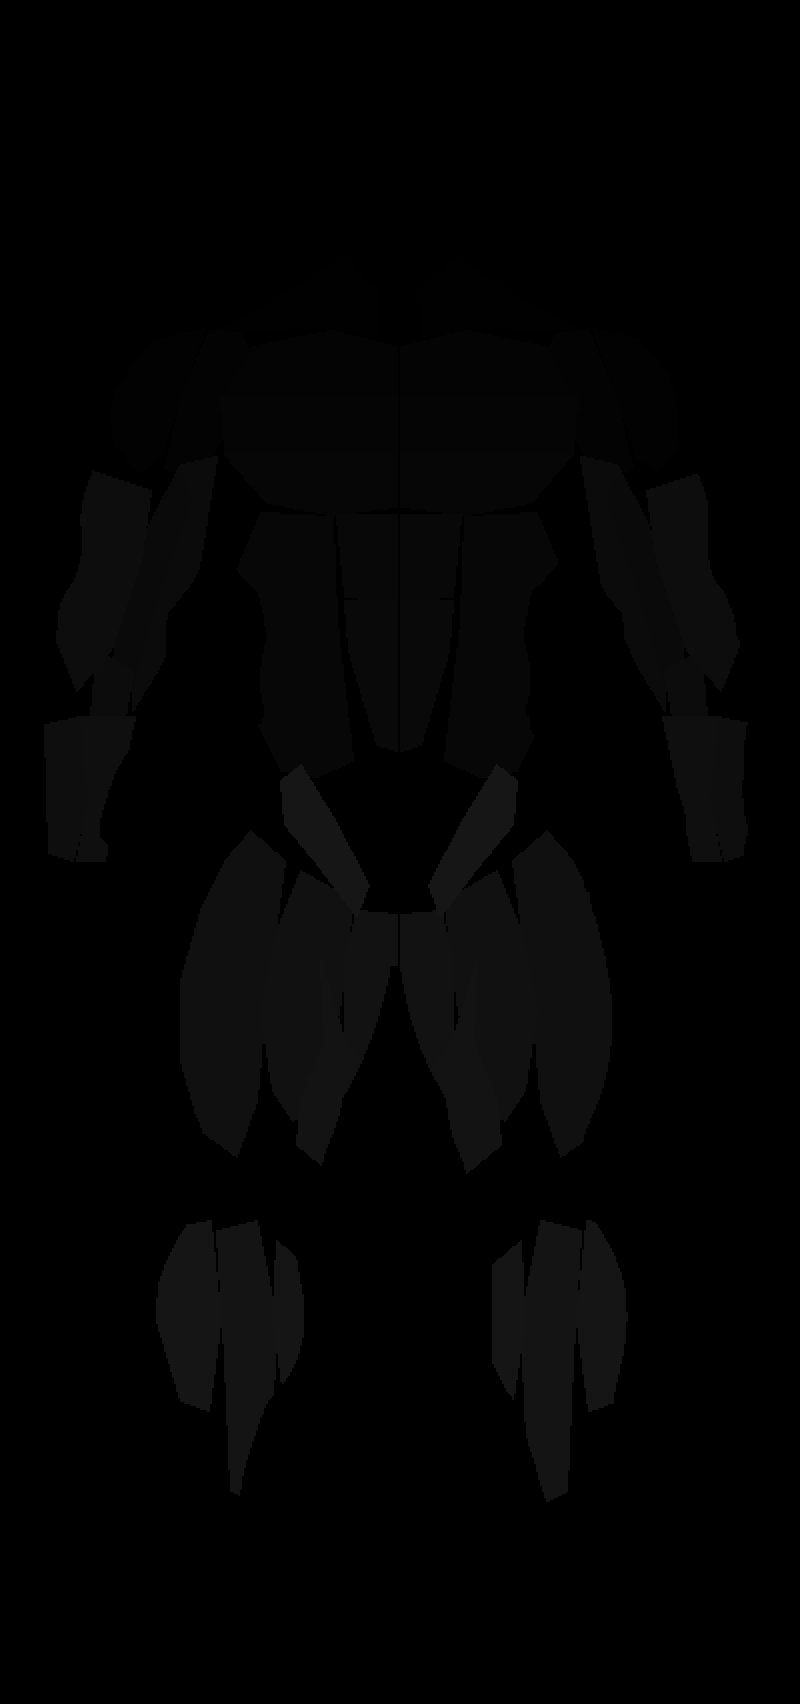
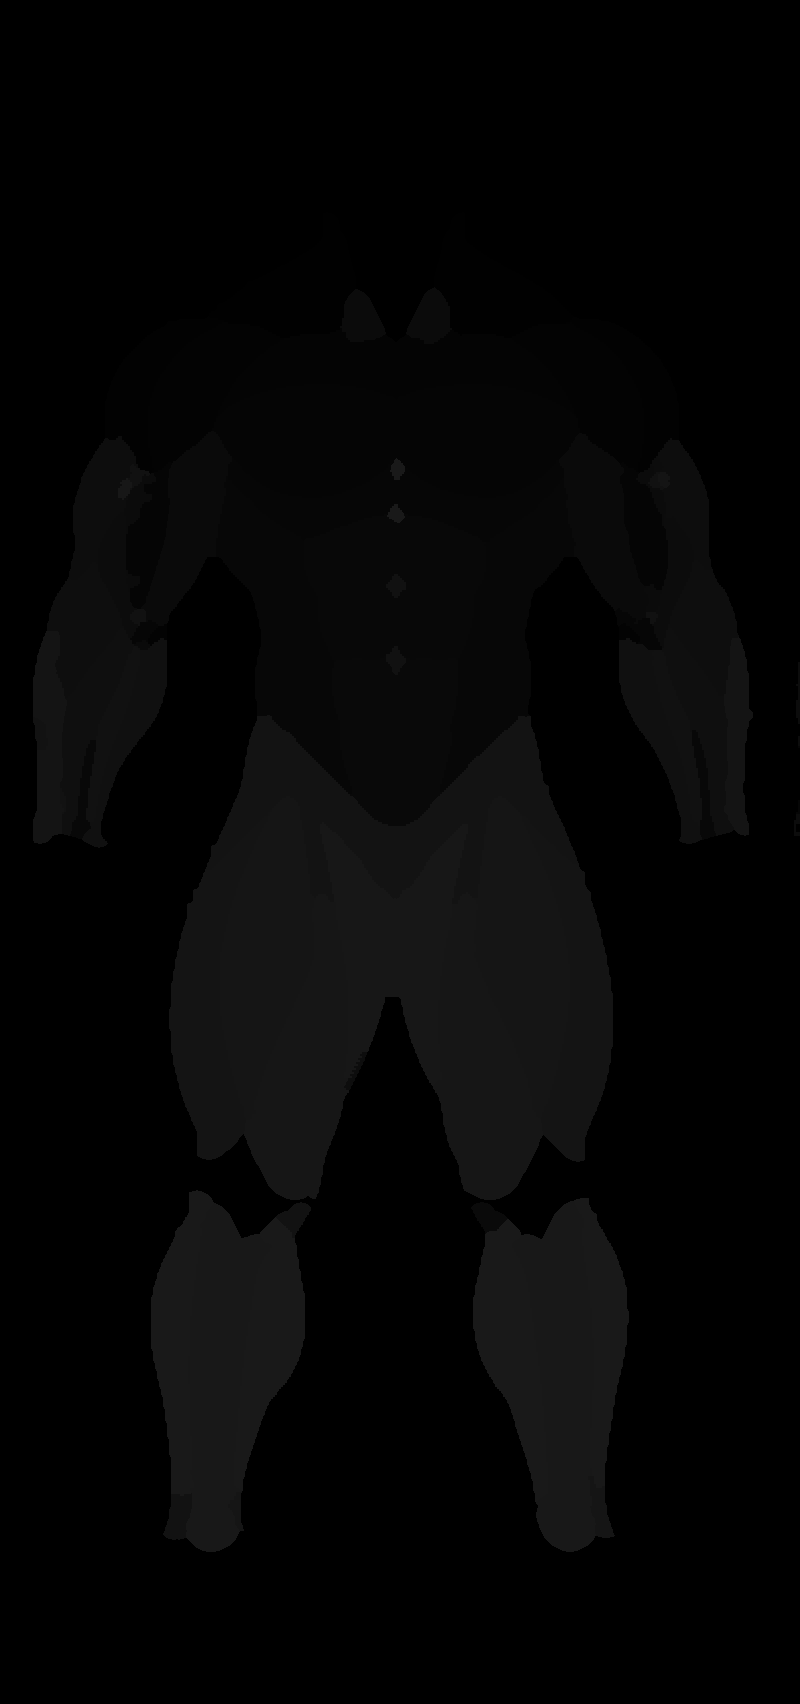
2.24.0: Body Map uses anatomical colour map for tap regions
Claude-Session: https://claude.ai/code/session_013y13kYL9t9U9gpArUo5B3B

diff --git a/views-bodymap.js b/views-bodymap.js
@@ -7,11 +7,11 @@ import { musclesOf, MUSCLES, MUSCLES_BY_GROUP, MUSCLE_HINTS } from './muscles.js
 
 // Painted regions of each view, in the order they are numbered in img/map/<view>-map.png (1, 2, 3, ...).
 const REGIONS = {
-  front: ['Upper Traps', 'Side Delts', 'Front Delts', 'Upper Chest', 'Mid Chest', 'Lower Chest', 'Obliques', 'Upper Abs', 'Lower Abs', 'Biceps Long Head', 'Biceps Short Head', 'Brachialis', 'Triceps Lateral Head', 'Brachioradialis', 'Wrist Flexors', 'Vastus Lateralis', 'Rectus Femoris', 'Adductors', 'Vastus Medialis', 'Tibialis', 'Gastrocnemius', 'Hip Flexors'],
-  back: ['Upper Traps', 'Mid Back', 'Side Delts', 'Rear Delts', 'Rotator Cuff', 'Lats', 'Lower Back', 'Triceps Long Head', 'Triceps Lateral Head', 'Triceps Medial Head', 'Wrist Extensors', 'Glutes', 'Glute Medius', 'Outer Hamstrings', 'Inner Hamstrings', 'Gastrocnemius', 'Soleus'],
+  front: ['Upper Traps', 'Side Delts', 'Front Delts', 'Upper Chest', 'Mid Chest', 'Lower Chest', 'Obliques', 'Upper Abs', 'Lower Abs', 'Biceps Long Head', 'Biceps Short Head', 'Brachialis', 'Triceps Lateral Head', 'Brachioradialis', 'Flexor Carpi Radialis', 'Flexor Carpi Ulnaris', 'Palmaris Longus', 'Flexor Digitorum Superficialis', 'Hip Flexors', 'Vastus Lateralis', 'Rectus Femoris', 'Vastus Medialis', 'Adductors', 'Tibialis', 'Gastrocnemius'],
+  back: ['Upper Traps', 'Mid Back', 'Rear Delts', 'Side Delts', 'Rotator Cuff', 'Lats', 'Lower Back', 'Triceps Long Head', 'Triceps Lateral Head', 'Triceps Medial Head', 'Wrist Extensors', 'Brachioradialis', 'Glutes', 'Glute Medius', 'Adductors', 'Outer Hamstrings', 'Inner Hamstrings', 'Gastrocnemius Medial', 'Gastrocnemius Lateral', 'Soleus'],
 };
-// A painted area that covers several muscles (the front of the forearm).
-const AREA = { 'Wrist Flexors': ['Flexor Carpi Radialis', 'Flexor Carpi Ulnaris', 'Palmaris Longus', 'Flexor Digitorum Superficialis'] };
+// Painted areas that stand for a muscle with another name (the two calf heads are the same muscle).
+const AREA = { 'Gastrocnemius Medial': ['Gastrocnemius'], 'Gastrocnemius Lateral': ['Gastrocnemius'] };
 const musclesIn = (region) => AREA[region] || [region];
 const PRIMARY = [139, 92, 246], SECONDARY = [34, 211, 238], PICK = [250, 204, 21];
 
@@ -198,7 +198,7 @@ function mapPanel(by, weeks) {
     const region = REGIONS[st.view][l - 1];
     st.pick = region; paint(canvas, map, st.view, by, region, luma, dark);
     const note = musclesIn(region).length > 1 ? `Covers: ${musclesIn(region).join(', ')}` : MUSCLE_HINTS[region] || '';
-    showDetail(region === 'Wrist Flexors' ? 'Forearm Flexors' : region, areaStats(by, region), weeks, note);
+    showDetail(musclesIn(region)[0], areaStats(by, region), weeks, note);
   });
   show(st.view);
   return h('div', { class: 'bm-wrap' },

diff --git a/sw.js b/sw.js
@@ -1,5 +1,5 @@
 // Offline app shell. Cache-first for the app's own files; never touches the network for anything else.
-const CACHE = 'gymlog-v2.23.1';
+const CACHE = 'gymlog-v2.24.0';
 const FILES = [
   './', 'index.html', 'styles.css', 'manifest.webmanifest',
   'app.js', 'art.js', 'icons.js', 'muscles.js', 'icon-match.js', 'catalog.js', 'icons-v2.js', 'live.js', 'sound.js', 'calc.js', 'charts.js', 'backup.js', 'notes.js', 'crypto.js', 'db.js', 'nav.js', 'picker.js', 'store.js',

diff --git a/version.js b/version.js
@@ -1,1 +1,1 @@
-export const VERSION = '2.23.1';
+export const VERSION = '2.24.0';

diff --git a/README.md b/README.md
@@ -232,3 +232,6 @@ node tests/e2e.mjs          # drives the real app in headless Chrome at phone si
 
 ## 2.23.1
 - Body Map: new model artwork with no shorts, so the hips and the backs of the legs are visible. Hip Flexors now have their own area at the top of each thigh on the front view.
+
+## 2.24.0
+- Body Map: tap areas now follow the real muscle borders on the artwork (upper/mid/lower chest, delt heads, bicep and tricep heads, the four forearm flexors, quad heads, hamstrings, calf heads) instead of a hand trace.
